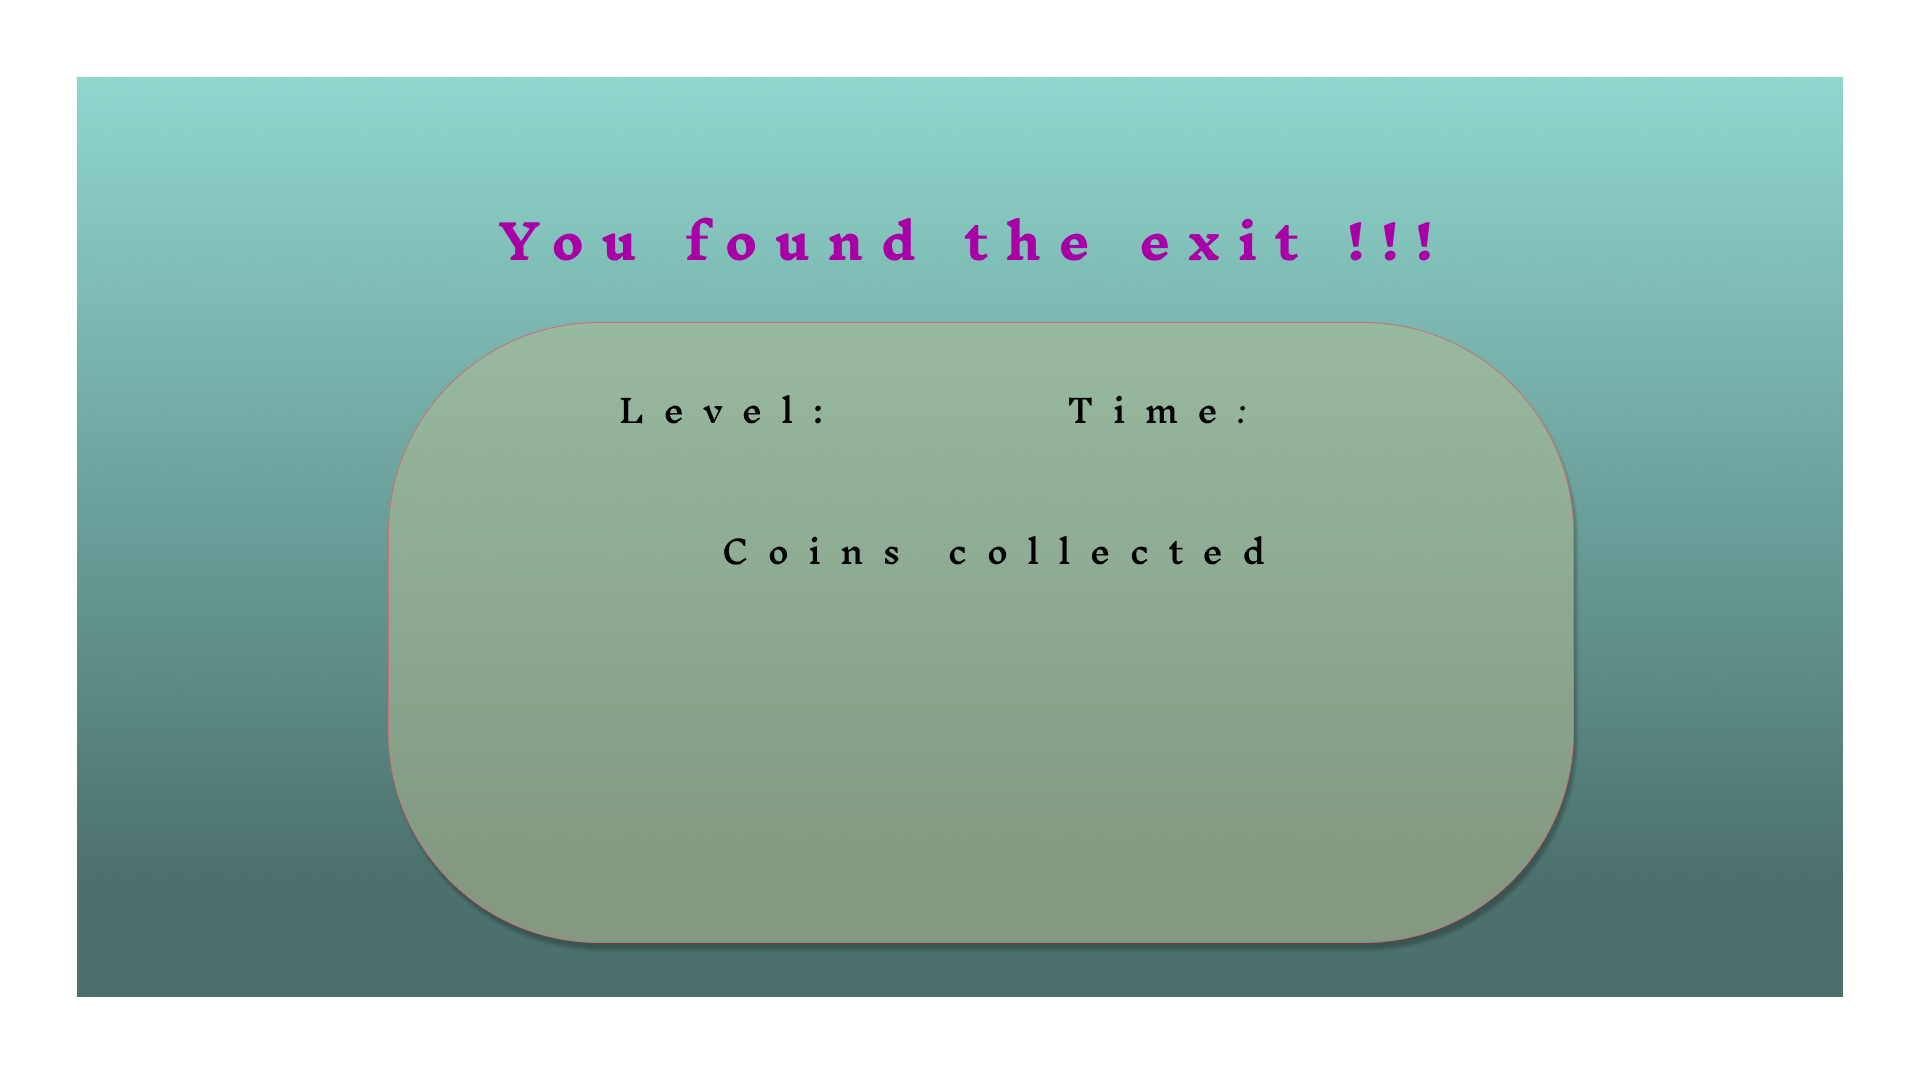
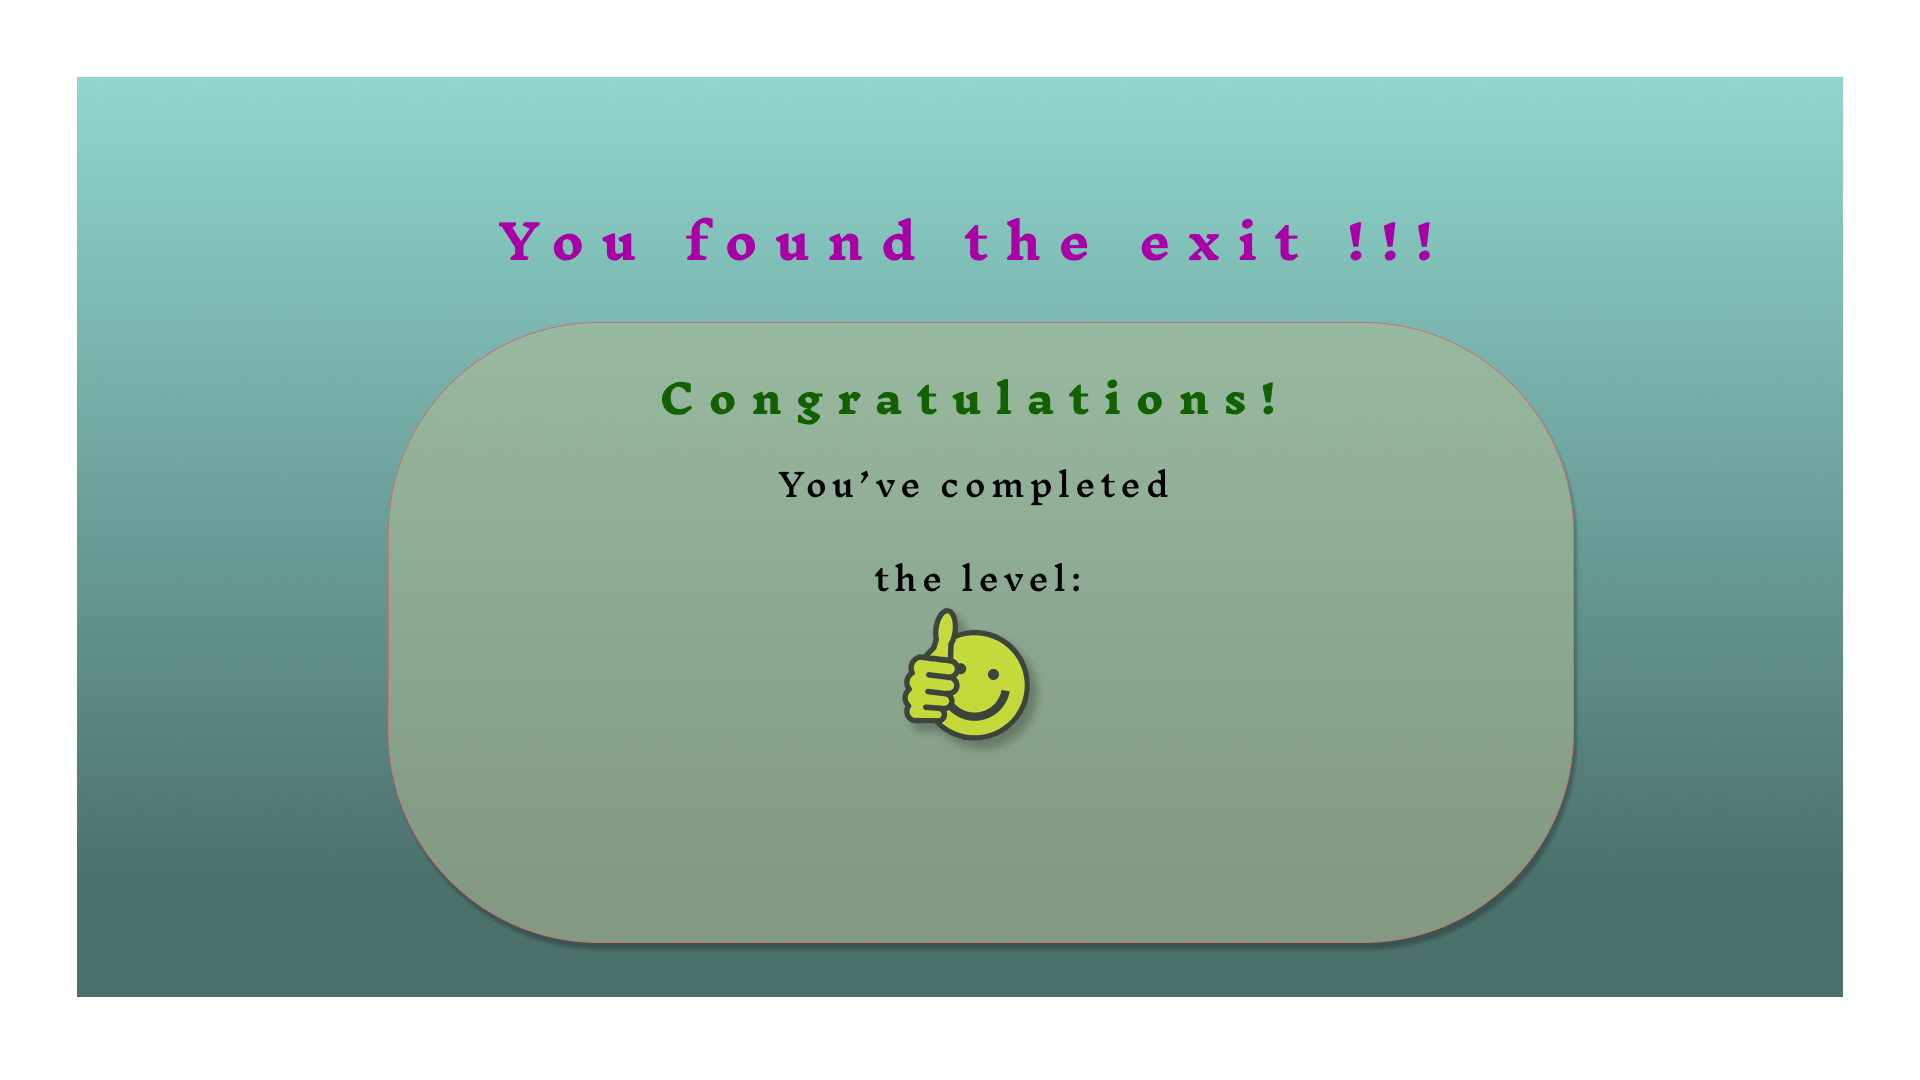
Added game title to main screen, fixed mobile control bug, and improved overall control usability

diff --git a/game.js b/game.js
@@ -402,9 +402,9 @@ class GameScene extends Phaser.Scene {
             this.activeDirection = { up: false, down: false, left: false, right: false };
 
             // Закріплені кнопки (setScrollFactor(0)) у правому нижньому куті
-            const size = 40;
-            const spacing = 0;
-            const offsetX = this.scale.width / 1.42; // правий край зліва направо
+            const size = 55;
+            const spacing = 2;
+            const offsetX = this.scale.width / 1.47; // правий край зліва направо
             const offsetY = this.scale.height / 1.5; // нижній край згори вниз
 
             const style = {
@@ -424,7 +424,7 @@ class GameScene extends Phaser.Scene {
                     this.add.text(0, 0, '↓', style).setOrigin(0.5).setAlpha(0.4)
                 ]).setSize(size, size).setInteractive().setScrollFactor(0),
 
-                left: this.add.container(offsetX, offsetY + size + spacing, [
+                left: this.add.container(offsetX - spacing, offsetY + size + spacing, [
                     this.add.rectangle(0, 0, size, size, 0x555555, 0.3),
                     this.add.text(0, 0, '←', style).setOrigin(0.5).setAlpha(0.4)
                 ]).setSize(size, size).setInteractive().setScrollFactor(0),
@@ -644,7 +644,7 @@ class GameScene extends Phaser.Scene {
             
             // тут треба реалізувати тач керування
             if (this.visibleJostik){
-                 if (this.activeDirection.up){
+                if (this.activeDirection.up){
                 moveY = -4;
                 
                 if (!this.stepSound.isPlaying){
@@ -938,7 +938,7 @@ class WinScene extends Phaser.Scene {
         this.add.image(this.scale.width / 2, this.scale.height / 2, 'backgroundGameWin')
             .setDisplaySize(1280, 720);
         
-        this.add.text(this.scale.width / 2.2, this.scale.height / 2.65, numlvl, {
+        this.add.text(this.scale.width / 1.69, this.scale.height / 1.88, numlvl, {
             fontSize: '24px',
             color: '#000000',
             fontFamily: 'Inknut Antiqua',
@@ -946,7 +946,7 @@ class WinScene extends Phaser.Scene {
         }).setOrigin(0.5) 
             .setScale(1);
 
-        let btnNextLvl = this.add.image(this.scale.width / 2, this.scale.height / 1.5, 'btnNextLvl')
+        let btnNextLvl = this.add.image(this.scale.width / 1.98, this.scale.height / 1.34, 'btnNextLvl')
             .setInteractive()
             .setScale(0.5);
 
